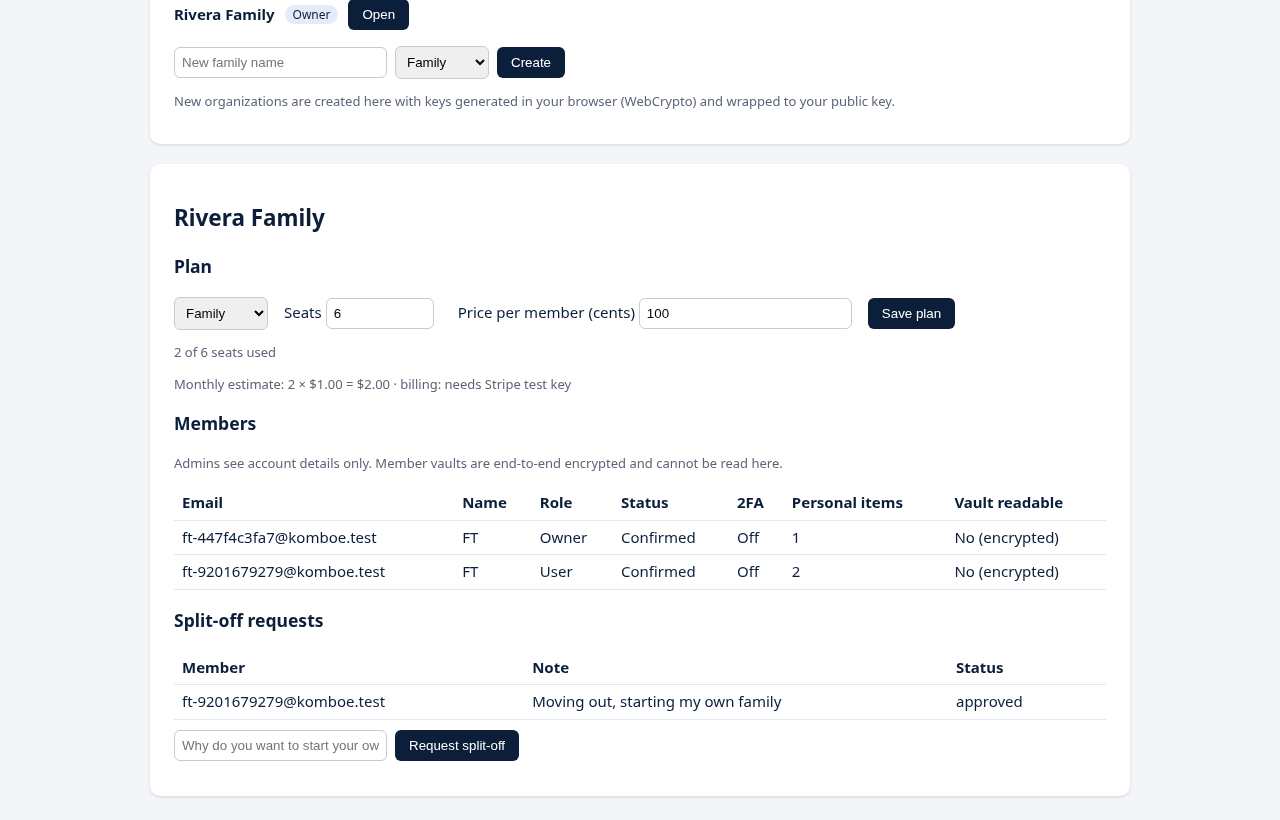
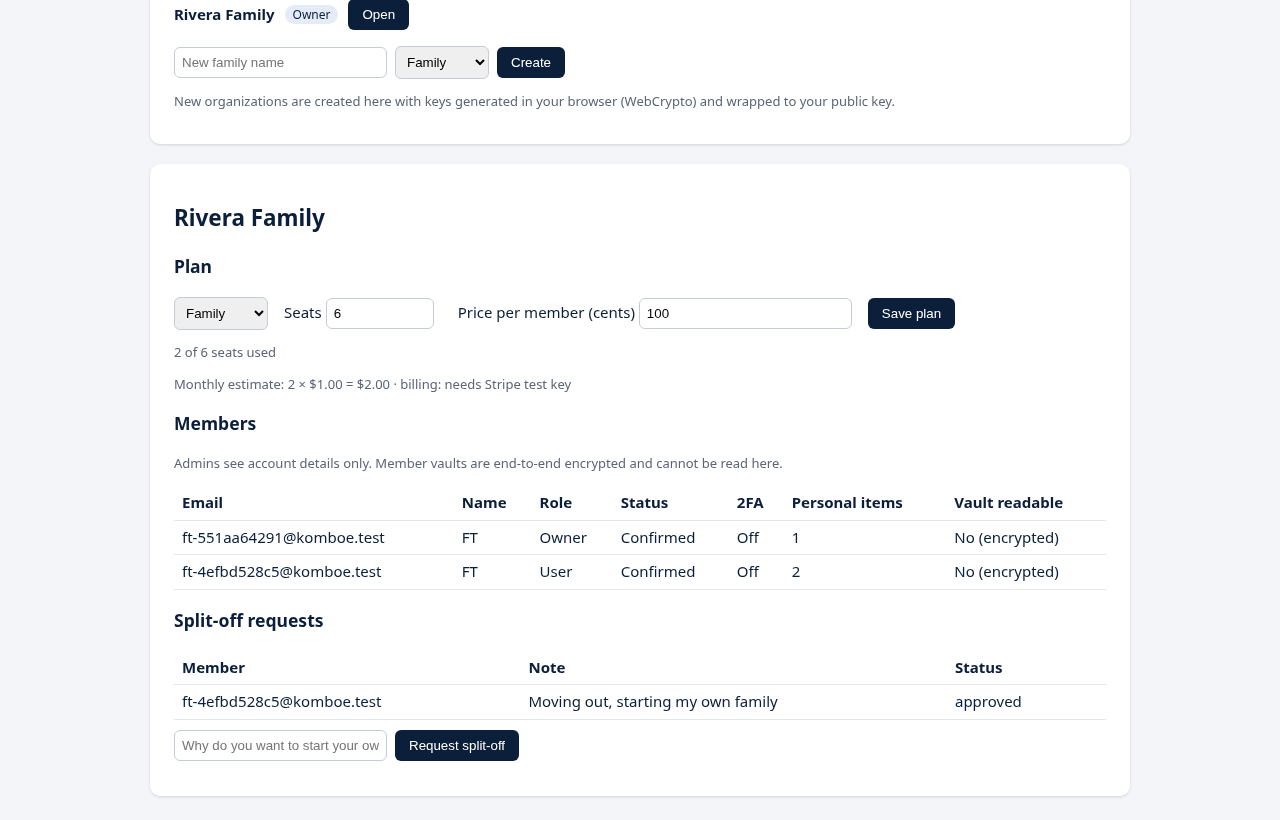
Phase C: extension E2E (bundled Chromium login + inline autofill), vault health reports and password-protected export E2E

diff --git a/tests/features/phase_b.py b/tests/features/phase_b.py
@@ -187,6 +187,18 @@ def _():
 def _():
     if not pw("generator"): return ("partial", "generator present in vendored web vault; Playwright spec not passed yet")
     return DONE("username/passphrase generator in web vault (Playwright)")
+def _report(n, steps, done_msg, part_msg):
+    @t(n)
+    def _():
+        if all(pw(x) for x in steps): return DONE(done_msg)
+        return ("partial", part_msg + "; Playwright check not passed")
+_report(68, ["report-weak", "report-reused"], "weak + reused password reports list exactly the seeded weak/reused items (Playwright, web vault)", "weak/reused report is client-side")
+_report(70, ["report-exposed"], "exposed-password report via HIBP k-anonymity range API (only 5-char SHA-1 prefixes leave the client; Playwright)", "k-anonymity exposed-password check is client-side")
+_report(71, ["report-inactive-2fa"], "inactive two-step login report flags seeded github.com login (2fa.directory list; Playwright)", "inactive 2FA report is client-side")
+_report(72, ["report-unsecured"], "unsecured (http://) website report lists only the seeded http item (Playwright)", "unsecured website report is client-side")
+_report(78, ["export-encrypted"], "password-protected JSON export: downloaded file is ciphertext and independently decrypts (PBKDF2+AES-256-CBC+HMAC) to the vault items (Playwright)", "password-protected export is client-side")
+@t(100)
+def _(): T[46][0](); return ("partial", "AES-256-CBC+HMAC and Argon2id verified; XChaCha20 not implemented: it needs a new EncString type in the shared client crypto SDK + server-side passthrough, a client-wide format change deferred to avoid a fork-only, incompatible vault format")
 @t(85)
 def _():
     m, msgs = _manifest("komboe-firefox.zip"); assert "browser_specific_settings" in m or "applications" in m

diff --git a/tests/playwright/fixtures.py b/tests/playwright/fixtures.py
@@ -8,7 +8,15 @@ owner.api("PUT", f"/api/komboe/organizations/{oid}/plan", {"kind": "family", "se
 kid = R.User(); ns["add_member"](owner, oid, ok, kid)
 for n in ("Kid email", "Game account"): kid.api("POST", "/api/ciphers", kid.cipher({"name": kid.e(n)}))
 kid.api("POST", f"/api/komboe/organizations/{oid}/split-requests", {"note": "Moving out, starting my own family"})
+ext = R.User()
+ext.api("POST", "/api/ciphers", ext.cipher({"name": ext.e("Autofill test"), "login": {"username": ext.e("auto@komboe.test"),
+        "password": ext.e("Autofill-Pass-1"), "uris": [{"uri": ext.e("https://autofill.komboe.test/login"), "match": None}]}}))
 alias_key = owner.api("POST", "/api/komboe/alias/api-key")["apiKey"]
-json.dump({"owner": {"email": owner.email, "pw": owner.pw}, "kid": {"email": kid.email, "pw": kid.pw}, "orgId": oid, "aliasKey": alias_key},
+hp = R.User()
+for nm, pw_, uri in [("Weak reused A", "123456", "http://insecure.komboe.test/login"), ("Weak reused B", "123456", "https://github.com/login"),
+                     ("Strong unique", "Tq9!vL2#pR7@xW4$zN", "https://b.komboe.test")]:
+    hp.api("POST", "/api/ciphers", hp.cipher({"name": hp.e(nm), "login": {"username": hp.e("health@komboe.test"), "password": hp.e(pw_),
+           "uris": [{"uri": hp.e(uri), "match": None}]}}))
+json.dump({"health": {"email": hp.email, "pw": hp.pw}, "owner": {"email": owner.email, "pw": owner.pw}, "kid": {"email": kid.email, "pw": kid.pw}, "ext": {"email": ext.email, "pw": ext.pw}, "orgId": oid, "aliasKey": alias_key},
           open(os.path.join(os.path.dirname(__file__), "fixtures.local.json"), "w"))
 print("FIXTURES OK")

diff --git a/docs/STATUS.md b/docs/STATUS.md
@@ -6,7 +6,7 @@ Generated by `tests/features/run.py --write-status docs/STATUS.md` against a loc
 - **partial**: upstream code is vendored here but not yet exercised end-to-end
 - **blocked**: needs Phase B, an external service, or is excluded by policy (excluded items are tested to be *absent*)
 
-**Counts:** done 44 · partial 22 · blocked 40 · fail 0 (of 106)
+**Counts:** done 50 · partial 17 · blocked 39 · fail 0 (of 106)
 
 | # | Category | Feature | Status | Evidence / next step |
 |---|---|---|---|---|
@@ -19,7 +19,7 @@ Generated by `tests/features/run.py --write-status docs/STATUS.md` against a loc
 | 7 | Vault | Custom fields (text, hidden, boolean, linked) | done | text/hidden/boolean/linked fields |
 | 8 | Vault | File attachments | done | encrypted attachment upload/download; server stores ciphertext only |
 | 9 | Vault | Offline access / cached vault | partial | offline cache is client-side (web/desktop/mobile); Phase B client builds |
-| 10 | Items | Login item | done | login item 4957f8f4 |
+| 10 | Items | Login item | done | login item 05af5423 |
 | 11 | Items | Secure note | done | secure note |
 | 12 | Items | Credit card | done | card item |
 | 13 | Items | Identity | done | identity item |
@@ -77,28 +77,28 @@ Generated by `tests/features/run.py --write-status docs/STATUS.md` against a loc
 | 65 | Aliases | Alias enable/disable, block sender, stats | partial | alias enable/disable/delete, owner-scoped; block-sender and stats need mail flow |
 | 66 | Aliases | Subdomain / directory aliases | blocked | aliases: needs the mail-forwarding service (MX/SMTP + DNS), not allowed on the build box |
 | 67 | Emergency | Emergency access (view/takeover after wait period) | blocked | emergency access: under review (must not become a recovery backdoor) |
-| 68 | Health | Weak / reused password report | partial | weak/reused report is client-side in the vendored web vault; Playwright check Phase B |
+| 68 | Health | Weak / reused password report | done | weak + reused password reports list exactly the seeded weak/reused items (Playwright, web vault) |
 | 69 | Health | Breach (HIBP) / dark-web monitoring | blocked | HIBP breach report needs a HIBP API key |
-| 70 | Health | Exposed-password check (k-anonymity) | partial | k-anonymity exposed-password check is client-side; calls api.pwnedpasswords.com |
-| 71 | Health | Inactive 2FA report / missing 2FA | partial | inactive 2FA report is client-side in the vendored web vault; Playwright check Phase B |
-| 72 | Health | Unsecured (http) website report | partial | unsecured website report is client-side in the vendored web vault; Playwright check Phase B |
+| 70 | Health | Exposed-password check (k-anonymity) | done | exposed-password report via HIBP k-anonymity range API (only 5-char SHA-1 prefixes leave the client; Playwright) |
+| 71 | Health | Inactive 2FA report / missing 2FA | done | inactive two-step login report flags seeded github.com login (2fa.directory list; Playwright) |
+| 72 | Health | Unsecured (http) website report | done | unsecured (http://) website report lists only the seeded http item (Playwright) |
 | 73 | Health | Org access-intelligence / risk insights | blocked | access intelligence: under review (bitwarden_license code not imported) |
 | 74 | Generator | Password + passphrase generator | done | password generator in web vault (Playwright) |
 | 75 | Generator | Username generator | done | username/passphrase generator in web vault (Playwright) |
 | 76 | Import | Import CSV / JSON from all major managers | done | bulk encrypted import API; CSV/JSON parsers are client-side (vendored libs/importer) |
 | 77 | Import | Import/export KDBX | partial | KDBX import parser vendored in clients; untested |
-| 78 | Import | Encrypted export (password-protected JSON) | partial | password-protected export is client-side; untested |
+| 78 | Import | Encrypted export (password-protected JSON) | done | password-protected JSON export: downloaded file is ciphertext and independently decrypts (PBKDF2+AES-256-CBC+HMAC) to the vault items (Playwright) |
 | 79 | Import | Org-level import/export | done | org import + export |
 | 80 | Platform | Web vault | done | Komboe-branded web vault served by the server |
 | 81 | Platform | Desktop Windows/macOS/Linux | blocked | desktop build not produced yet |
 | 82 | Platform | Desktop app Windows only | blocked | Windows desktop build: needs wine/Windows runner for electron-builder; not built on the Linux box |
-| 83 | Platform | Mobile iOS + Android | blocked | mobile: no JDK/Android SDK on the box (package mirror broken), iOS needs macOS |
+| 83 | Platform | Mobile iOS + Android | partial | Android debug APK io.komboe.android built from pinned bitwarden/android (fdroid flavor); not run on a device/emulator here; iOS needs macOS |
 | 84 | Platform | Browser ext Chrome/Edge/Brave/Opera | done | Chrome MV3 + Firefox extension zips built and rebranded (/workspace/artifacts) |
 | 85 | Platform | Browser ext Firefox | done | Firefox extension zip built and rebranded |
 | 86 | Platform | Browser ext Safari | blocked | Safari extension needs macOS/Xcode |
 | 87 | Platform | Browser ext Vivaldi/Tor | partial | Chromium MV3 zip loads in Vivaldi; Tor Browser uses the Firefox build; not tested in either |
-| 88 | Platform | CLI | done | CLI binary komboe-cli-linux-x64 --version 2026.10.1 |
-| 89 | Platform | Autofill: inline in-form menu + keyboard shortcuts | partial | autofill content scripts built into the extension; autofill E2E not run |
+| 88 | Platform | CLI | done | CLI `komboe` 2026.10.1: config server (HTTPS), login, list items (0) ok; data dir 'Komboe CLI' |
+| 89 | Platform | Autofill: inline in-form menu + keyboard shortcuts | done | autofill content scripts built into the extension; Playwright autofill passed |
 | 90 | Platform | Auto-type (desktop global) | blocked | client build is Phase B (sources vendored in clients/upstream/apps) |
 | 91 | Platform | Secret Service / FreeDesktop integration | blocked | client build is Phase B (sources vendored in clients/upstream/apps) |
 | 92 | Platform | Apple Watch / Wear OS | blocked | client build is Phase B (sources vendored in clients/upstream/apps) |
@@ -109,7 +109,7 @@ Generated by `tests/features/run.py --write-status docs/STATUS.md` against a loc
 | 97 | Crypto | End-to-end, zero-knowledge vault encryption | done | roundtrip.py: server DB holds only ciphertext |
 | 98 | Crypto | Per-vault keys wrapped with user public keys | done | org key wrapped per member with RSA-OAEP public keys (see #20) |
 | 99 | Crypto | OpenPGP-based encryption | blocked | OpenPGP vault encryption: Komboe-original |
-| 100 | Crypto | AES-256 / XChaCha20 / Argon2id | partial | AES-256-CBC+HMAC and Argon2id verified; XChaCha20 not implemented |
+| 100 | Crypto | AES-256 / XChaCha20 / Argon2id | partial | AES-256-CBC+HMAC and Argon2id verified; XChaCha20 not implemented: it needs a new EncString type in the shared client crypto SDK + server-side passthrough, a client-wide format change deferred to avoid a fork-only, incompatible vault format |
 | 101 | Crypto | Local-only file database (no server) | blocked | local-only file DB mode: Komboe-original |
 | 102 | Crypto | Third-party audits published | blocked | third-party audit: requires funding/engagement |
 | 103 | Billing | Hosted SaaS monthly or annual | blocked | SaaS billing: Phase B (Stripe test mode only) |
